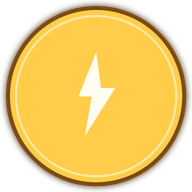
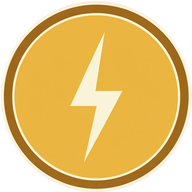
fix(ui): 主动技能图标真正显示贴图，暗态落到渲染参数；图标换 ImageGen 出图
浏览器实跑（?debug + 自动避障代打）才发现两个之前测不出来的问题：

1. 主动图标根本没上贴图。Button 的背景只认 opts.skin（framework button.ts 的
   onBind 不读 opts.background），原来传的是 background ⇒ 画成通用按钮灰皮，
   闪电徽标从未显示。改为按 badges.ts 的同款写法传 skin。
2. 暗态被 Button 自己的 disabled 视觉吃掉。setLit 里先 setBackground 再
   setDisabled，而 setDisabled 会走 applyVisual 把乘色重置成白、透明度重置成
   0.45 ⇒ 冷却中的图标只是块半透明灰，压在亮沙背景上直接糊掉。交换两句顺序，
   并把暗态乘色从蓝灰 #5a6478 改中性浅灰 #9aa3b0、透明度 0.55 → 0.72
   （蓝灰会把琥珀金糊成灰饼，看不出那是闪电）。
3. 补回归用例「暗态真的落到渲染参数上」：读 NinePatchSprite 的 uColor/uOpacity
   uniform 断言。此前用例只验「暗态点不动」，测不到「暗态根本没画出来」。
4. 图标素材改由 ImageGen 出（品红底 → tools/mat_skill_icons.py 色度键抠图 +
   圆形遮罩裁掉右下角「Qoder AI 生成」水印 + 去粉边），192² 与离线兜底生成器
   tools/gen_skill_icons.py 同规格。两张 39.7/43.8KB，pkg-assets +29KB。

diff --git a/packages/game/src/ui/skillIcons.ts b/packages/game/src/ui/skillIcons.ts
@@ -80,10 +80,12 @@ export function skillCaption(kind: 'active' | 'passive', s: {
   return s.charges > 0 ? `×${s.charges}` : '生效中';
 }
 
-/** 亮/暗的视觉参数：暗态压暗乘色 + 降不透明度（亮态=白） */
+/** 亮/暗的视觉参数：暗态压暗乘色 + 降不透明度（亮态=白）
+ *  乘色取中性浅灰而非蓝灰：图标本体是琥珀金/青蓝两套色，压成蓝灰会把金色糊成灰饼、
+ *  看不出是闪电；浅灰只降亮度不抢色相，暗态仍能辨形但明显「没点亮」。 */
 const LIT_COLOR = '#ffffff';
-const DIM_COLOR = '#5a6478';
-const DIM_OPACITY = 0.55;
+const DIM_COLOR = '#9aa3b0';
+const DIM_OPACITY = 0.72;
 const LIT_OPACITY = 1;
 
 /**
@@ -100,16 +102,18 @@ class SkillIcon extends Box {
     super({ direction: 'column', align: 'center', gap: 2 });
     const src = kind === 'active' ? set.active : set.passive;
     // 缺贴图时用主题圆底占位：结构/命中区不变，测试与调试锚点照旧
-    const faceOpts = {
+    const base = {
       width: size, height: size, align: 'center' as const, justify: 'center' as const,
-      ...(src
-        ? { background: src, backgroundColor: LIT_COLOR }
-        : { background: host.solidSkin, backgroundColor: kind === 'active' ? '#c8922e' : '#2b7fb0' }),
     };
+    const bg = src ?? host.solidSkin;
+    const tint = src ? LIT_COLOR : (kind === 'active' ? '#c8922e' : '#2b7fb0');
     this.isButton = onTap !== null;
+    // 注意：Button 的背景只认 opts.skin（见 framework button.ts 的 onBind），传 background 会被
+    // 静默忽略 ⇒ 图标画成通用按钮皮，闪电/盾牌根本不上屏。它也不收 backgroundColor：
+    // 亮暗乘色统一由 setLit → setBackground 落，构造期不需要着色。
     this.face = onTap
-      ? new Button({ ...faceOpts, padding: 0, onClick: () => onTap() })
-      : new Box(faceOpts);
+      ? new Button({ ...base, skin: bg, padding: 0, onClick: () => onTap() })
+      : new Box({ ...base, background: bg, backgroundColor: tint });
     this.caption = new Label({ text: '', fontSizePx: 11, color: host.theme.colors.gold, align: 'center' });
     // 名牌锚点（不可见）：测试按文本定位两枚图标，不依赖贴图
     const tag = new Label({ text: kind === 'active' ? '主动技能' : '被动天赋' });
@@ -127,8 +131,10 @@ class SkillIcon extends Box {
     const v = { color: lit ? LIT_COLOR : DIM_COLOR, opacity: lit ? LIT_OPACITY : DIM_OPACITY };
     if (this.isButton) {
       const btn = this.face as Button;
-      btn.setBackground(v);
+      // 顺序要紧：setDisabled 会走 applyVisual 把乘色/透明度覆盖成 disabled 的 0.45 白，
+      // 先它后 setBackground，暗态参数才留得住（否则冷却中的图标只是半透明，压在亮沙上直接糊掉）。
       btn.setDisabled(!lit);
+      btn.setBackground(v);
     } else {
       (this.face as Box).setBackground(v);
     }
@@ -140,6 +146,18 @@ class SkillIcon extends Box {
   get captionLabel(): Label { return this.caption; }
   /** 主动图标是否可点（暗态被 setDisabled 吞掉点击） */
   get tappable(): boolean { return this.isButton; }
+  /**
+   * 测试锚点：图标面**实际**的乘色与不透明度（读渲染对象，不读 opts）。
+   * 存在的理由：Button.setDisabled 会经 applyVisual 覆盖这两个值，
+   * 只测「暗态点不动」测不出「暗态根本没画出来」——两者是不同的 bug。
+   */
+  get bgVisual(): { color: string; opacity: number } {
+    const u = (this.face as unknown as {
+      bg?: { material?: { uniforms?: Record<string, { value: unknown }> } };
+    }).bg?.material?.uniforms;
+    const col = u?.uColor?.value as { getHexString?: () => string } | undefined;
+    return { color: col?.getHexString?.() ?? '', opacity: typeof u?.uOpacity?.value === 'number' ? u.uOpacity.value : -1 };
+  }
 }
 
 /** HUD 右侧技能图标区：竖排两枚 + 更新句柄（root 交给调用方挂进自己的 view） */

diff --git a/tools/mat_skill_icons.py b/tools/mat_skill_icons.py
@@ -1,0 +1,105 @@
+"""
+技能图标抠图：把 ImageGen 出的「品红底」图标转成 HUD 用的透明 PNG。
+
+为什么需要这一步：生成模型不出透明通道，统一让它画在纯品红 #FF00FF 上
+（调色板里没有这个色，键控不会误吃图标本体），再在这里按色度键抠 + 圆形遮罩收边。
+圆形遮罩同时干掉右下角的「Qoder AI 生成」水印——水印在圆外，一律裁掉。
+
+产出与 tools/gen_skill_icons.py 同规格：192²、RGBA、四角透明、边缘带 1.5% 羽化。
+
+跑法（本机 PIL 不吃中文路径，输入输出都走 ASCII 暂存目录，再由 shell 拷回仓库）：
+  D:/python/python.exe tools/mat_skill_icons.py --in D:/tmp/icons/active.png --out D:/tmp/icons_out/active.png
+"""
+import argparse
+import os
+
+import numpy as np
+from PIL import Image
+
+SIZE = 192          # 输出边长，与 gen_skill_icons.py 一致
+WORK = 512          # 先降到该尺寸再算遮罩：水印/噪点更少，边缘仍够干净
+KEY = np.array([255.0, 0.0, 255.0])   # 键控背景色（纯品红）
+T_LO, T_HI = 60.0, 150.0              # 与品红的距离带：带内渐显，带外不透明
+FEATHER = 0.015                       # 圆边缘羽化占半径比例
+SPILL_K = 40                          # 粉边抑制：R/B 向 G 靠拢的容差
+
+
+def _extent(profile: np.ndarray) -> tuple[int, int]:
+    """取「强不透明像素」在该轴上的最长连续段。
+    用连续段而不是 min/max 外接框：右下角的水印也是不透明像素，
+    外接框会被它撑到整张图，圆遮罩就失效了。"""
+    on = np.flatnonzero(profile > 0.25 * profile.max())
+    if on.size == 0:
+        raise SystemExit('没找到足够的强不透明像素')
+    runs = []
+    start = prev = int(on[0])
+    for i in on[1:].tolist():
+        if i == prev + 1:
+            prev = i
+            continue
+        runs.append((start, prev))
+        start = prev = i
+    runs.append((start, prev))
+    return max(runs, key=lambda s: s[1] - s[0])
+
+
+def matte(src: str) -> Image.Image:
+    img = Image.open(src).convert('RGB')
+    img.thumbnail((WORK, WORK), Image.LANCZOS)
+    a = np.asarray(img).astype(np.float32)
+
+    # 1) 色度键：离品红越远越不透明
+    dist = np.sqrt(((a - KEY) ** 2).sum(axis=2))
+    alpha = np.clip((dist - T_LO) / (T_HI - T_LO), 0.0, 1.0)
+
+    # 2) 用强不透明像素的最长连续段定圆心与半径（= 图标本体），水印不参与几何估计
+    strong = (alpha > 0.78).sum(axis=0), (alpha > 0.78).sum(axis=1)
+    x0, x1 = _extent(strong[0])
+    y0, y1 = _extent(strong[1])
+    cx, cy = (x0 + x1) / 2, (y0 + y1) / 2
+    r = max(x1 - x0, y1 - y0) / 2
+
+    # 3) 圆形遮罩：半径内实、半径外透明，边缘 FEATHER 比例羽化；圆外（含水印）一律裁掉
+    h, w = alpha.shape
+    yy, xx = np.mgrid[0:h, 0:w].astype(np.float32)
+    d = np.sqrt((xx - cx) ** 2 + (yy - cy) ** 2)
+    alpha = np.minimum(alpha, np.clip((r * (1 + FEATHER) - d) / (r * FEATHER * 2 + 1e-6), 0, 1))
+
+    # 4) 去粉边：半透明像素的 R/B 压向 G，纯品红残留变成中性灰而不是亮粉
+    spill = alpha < 0.98
+    g = a[:, :, 1]
+    a[:, :, 0] = np.where(spill, np.minimum(a[:, :, 0], g + SPILL_K), a[:, :, 0])
+    a[:, :, 2] = np.where(spill, np.minimum(a[:, :, 2], g + SPILL_K), a[:, :, 2])
+
+    # 5) 以圆心为中心裁方图并留一点余量，缩到输出尺寸
+    half = r * (1 + FEATHER)
+    x0, y0 = int(max(0, cx - half)), int(max(0, cy - half))
+    x1, y1 = int(min(w, cx + half)), int(min(h, cy + half))
+    box = np.concatenate([a[:, :, :3], (alpha * 255)[:, :, None]], axis=2).astype(np.uint8)
+    out = Image.fromarray(box[y0:y1, x0:x1], 'RGBA')
+    side = max(x1 - x0, y1 - y0)
+    canvas = Image.new('RGBA', (side, side), (0, 0, 0, 0))
+    canvas.paste(out, ((side - (x1 - x0)) // 2, (side - (y1 - y0)) // 2))
+    return canvas.resize((SIZE, SIZE), Image.LANCZOS)
+
+
+def report(path: str) -> None:
+    img = Image.open(path)
+    a = np.asarray(img)[:, :, 3]
+    opaque = float((a > 200).mean())
+    print(f'{path}: {img.size[0]}x{img.size[1]} {os.path.getsize(path) / 1024:.1f}KB '
+          f'opaque={opaque:.2f} transparent={float((a < 8).mean()):.2f}')
+
+
+def main() -> None:
+    ap = argparse.ArgumentParser()
+    ap.add_argument('--in', dest='src', required=True)
+    ap.add_argument('--out', dest='dst', required=True)
+    d = ap.parse_args()
+    os.makedirs(os.path.dirname(os.path.abspath(d.dst)), exist_ok=True)
+    matte(d.src).save(d.dst, 'PNG', optimize=True)
+    report(d.dst)
+
+
+if __name__ == '__main__':
+    main()
